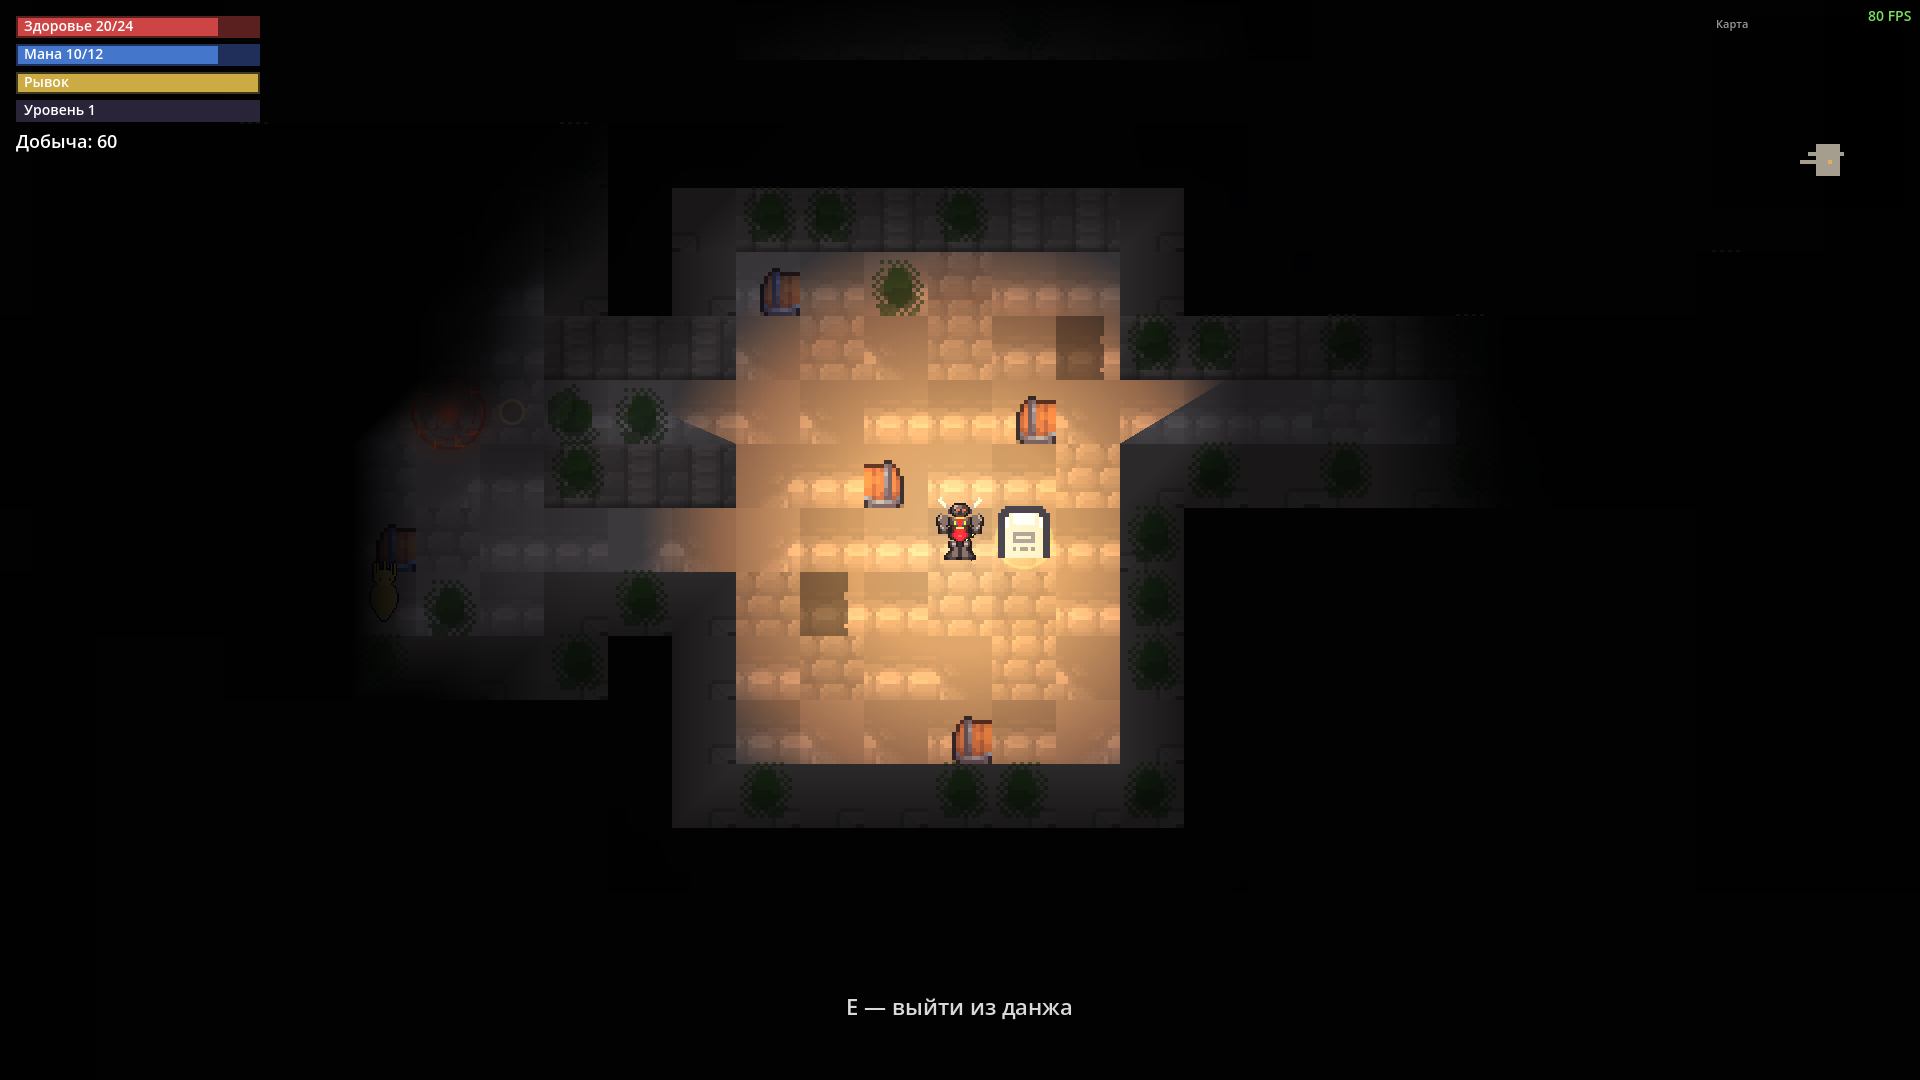
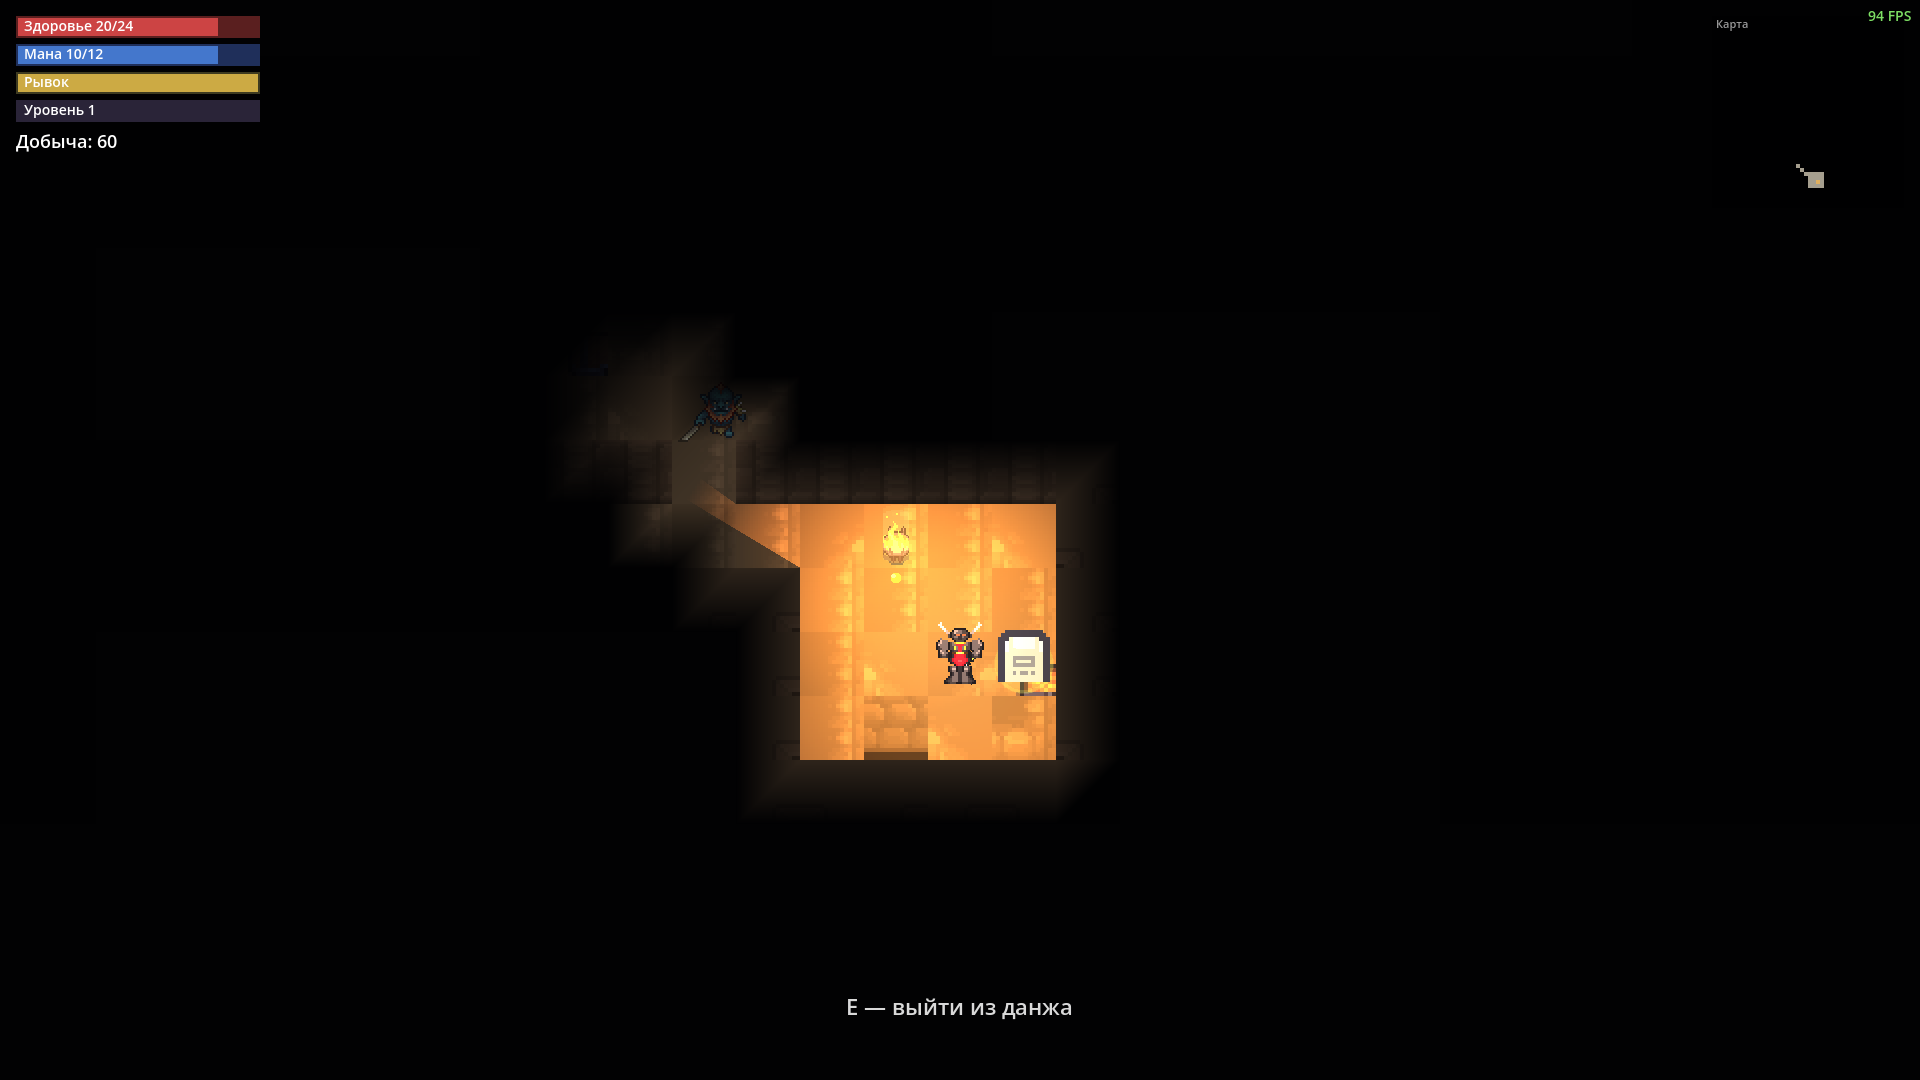
v1.42.3: правки приёмки этапа 4 — вне света глухая тьма, FPS на гашении дальних источников
Фидбек заказчика: всё равно просвечивает стены, FPS проседает.

1. Корень просвечивания — «память» тумана войны: изученные комнаты
   показывались на 28% даже за стенами (сетка уровня читалась серыми
   пятнами). Память УБРАНА: вне поля зрения — глухая тьма, план уровня
   помнит только миникарта. Свет фонаря честно упирается в стены.
2. FPS: тени рендерили ВСЕ источники (фонарь + факелы + лужи + порча +
   светящиеся монстры), даже невидимые под глухим туманом. Дальние
   источники теперь гасятся (dungeon_lights.cull_px = 12 тайлов, свет
   монстров — 10): в кадре 1–2 теневые карты вместо десятка. Замер
   (bandit_camp, 450 кадров): установившиеся 91–94 FPS (было 83;
   первые секунды входа — прогрев шейдеров теней, разовое).

Тесты: проверки памяти обновлены (изученный пол вне света — глухая
тьма) + гашение дальних источников; полный прогон зелёный; headless
dungeon — 0 SCRIPT ERROR. Скриншоты: shot_dungeon2_bandit.png (комната
в кольце глухой тьмы), ruins, demon.

Следующий шаг: повторная приёмка этапа 4; далее — многоуровневость
данжей (№113–115) отдельным проходом.

Changed region(s): [[0.1875, 0.1528, 0.75, 0.7639], [0.9375, 0.1222, 0.9688, 0.1833]]

diff --git a/CHANGELOG_E2.md b/CHANGELOG_E2.md
@@ -1201,6 +1201,38 @@ README.md.**
 нижнем углу города) и посмотреть; затем этап 2 «Глобальная карта v2»
 программы «Мир v2» — НОВЫЙ чат.**
 
+## Правки приёмки v1.42.3 (2026-11-02, тем же чатом) — вне света глухая тьма, FPS с гашением дальних источников
+
+Фидбек заказчика: «всё равно просвечивает стены и ФПС проседает».
+Корень обоих найден:
+
+1. **«Просвечивание» — это была «память» тумана**: изученные комнаты
+   показывались на 28% яркости даже за стенами — сетка уровня читалась
+   серыми пятнами вокруг героя. Память УБРАНА (v1.42.3): вне поля
+   зрения — ГЛУХАЯ тьма, что бы герой ни исследовал; план уровня помнит
+   только миникарта. Свет фонаря честно упирается в стены (тени
+   PointLight2D), за ними — чернота.
+2. **FPS: тени у ВСЕХ источников сразу** — фонарь героя, каждый факел,
+   каждая лужа и комната порчи, каждый светящийся монстр рендерили
+   свою теневую карту даже там, где под глухим туманом ничего не видно.
+   Теперь дальние источники ГАСЯТСЯ (включаются в радиусе ~12 тайлов от
+   героя — dungeon_lights.cull_px, свет монстров — 10 тайлов): картинка
+   не меняется (под туманом их не видно), а теневых карт в кадре — одна-
+   две вместо десятка. Замер (bandit_camp, 450 кадров): установившиеся
+   91–94 FPS (до правки — 83, в момент входа проседало до 26 на прогреве
+   шейдеров теней — это разовая загрузка сцены).
+
+Тесты: +проверка гашения дальних источников; проверки памяти обновлены
+(изученный пол вне света — глухая тьма). Полный прогон зелёный, headless
+dungeon — 0 SCRIPT ERROR. Скриншоты обновлены: shot_dungeon2_bandit.png
+(комната в кольце глухой тьмы), ruins, demon.
+
+**Файлы: scripts/dungeon_fog.gd (память убрана), dungeon_lights.gd
+(гашение дальних источников), dungeon.gd (герой слою света),
+enemy.gd (свет монстра гасится вдали), tests/test_dungeon2.gd,
+tools/diag_dungeon2.gd (замер 450 кадров), tools/shot_dungeon2_*.png,
+data/version.json, README.md.**
+
 ## Правки приёмки v1.42.2 (2026-11-02, тем же чатом) — туман глухой, вода под героем, чистый пол, светящиеся монстры
 
 Фидбек заказчика по скриншоту: «большой радиус от персонажа просвечивает

diff --git a/PLAN.md b/PLAN.md
@@ -685,11 +685,13 @@ data/city.json (colors.water_tune). Скриншоты: tools/shot_water.png.
    Тюнинг — data/world.json → npc_city. Тесты: tests/test_npc_cities.gd
    (+27 проверок) + tests/smoke_npc.gd (гостевой цикл).
 4. **Данжи v2** — СВЕТ/МАТЕРИАЛЫ ВЫПОЛНЕНЫ (v1.42.0, 2026-11-02) + ПРАВКИ
-   ПРИЁМКИ v1.42.1–v1.42.2 (свет упирается в стены — тени PointLight2D;
+   ПРИЁМКИ v1.42.1–v1.42.3 (свет упирается в стены — тени PointLight2D;
    факел на стене; факелы только гуманоидам biomes.humanoids; лужи —
-   органические пятна воды ПОД героем; туман: стены вне поля зрения
-   глухие, память только для пола 0.72; чистые тайлы пола без пропсов
-   пака; огненные монстры (cinder/висп) подсвечивают пространство): материалы по референсам из пака заказчика («ассеты
+   органические пятна воды ПОД героем; туман: вне поля зрения ГЛУХАЯ
+   тьма — «память» убрана, план помнит миникарта; FPS — дальние
+   источники света гасятся, установившиеся 91–94 FPS; чистые тайлы пола
+   без пропсов пака; огненные монстры (cinder/висп) подсвечивают
+   пространство): материалы по референсам из пака заказчика («ассеты
    подземельев», tools/make_dungeon2.py): плиты пола, кирпичные грани/капы
    стен; свет «тёплый фонарь + холодные пятна» — жаровни с живым огнём и
    холодные бирюзовые лужи; «пепельная порча» комнат (потёки/трещины/

diff --git a/СЛЕДУЮЩИЙ-ШАГ.md b/СЛЕДУЮЩИЙ-ШАГ.md
@@ -3,8 +3,14 @@
 > Этот файл — первое место, куда смотреть: текущий статус и с чего начать
 > новый чат. Ссылка на него есть в самом верху `README.md`.
 
-## Текущий статус (2026-11-02, «Мир v2» этап 4 «Данжи v2» — правки приёмки v1.42.1–v1.42.2, ждёт приёмки)
+## Текущий статус (2026-11-02, «Мир v2» этап 4 «Данжи v2» — правки приёмки v1.42.1–v1.42.3, ждёт приёмки)
 
+- **v1.42.3 — третий круг правок этапа 4 (фидбек: всё ещё просвечивает,
+  FPS проседает):** «память» тумана УБРАНА — вне поля зрения глухая
+  тьма (серые пятна изученных комнат больше не читаются сквозь стены;
+  план помнит миникарта); FPS — дальние источники света гасятся
+  (под туманом их не видно, а теневые карты стоили кадров): установившиеся
+  91–94 FPS (было 83, в момент входа — проседание на прогреве теней).
 - **v1.42.2 — второй круг правок этапа 4 (фидбек: уровень просвечивает
   сквозь тень, вода над героем, «бочка под сундуком», горят без света):**
   туман — стены вне поля зрения НЕПРОЗРАЧНЫЕ, «память» только изученный

diff --git a/README.md b/README.md
@@ -1,4 +1,4 @@
-# Пепел и Мана — v1.42.2
+# Пепел и Мана — v1.42.3
 
 [![Тесты](https://github.com/SDVGames-Studio/pepel-i-mana/actions/workflows/tests.yml/badge.svg)](https://github.com/SDVGames-Studio/pepel-i-mana/actions/workflows/tests.yml)
 
